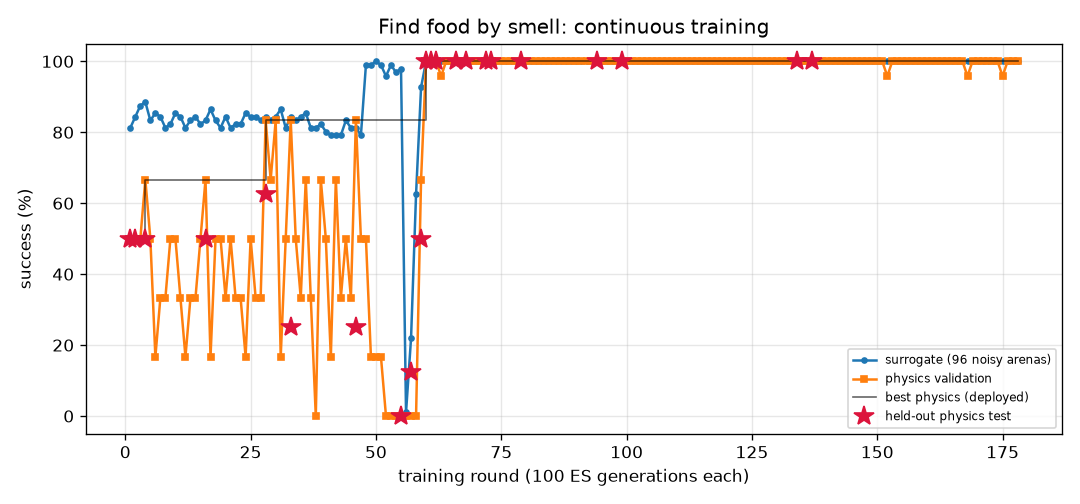
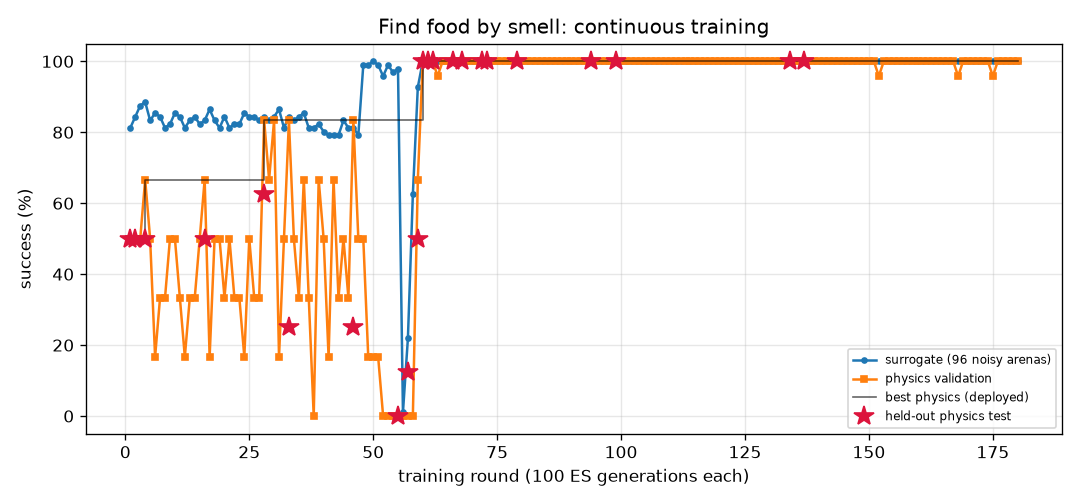
FlyLab: continuous training progress
- walk_forward: optimal, physics val 100% of 24, round 258
- turn: optimal, physics val 100% of 24, round 793
- goto: optimal, physics val 100% of 24, round 213
- odor_seek: optimal, physics val 100% of 24, round 180
- odor_avoid: optimal, physics val 100% of 24, round 725
- light_seek: optimal, physics val 100% of 24, round 406
- light_avoid: optimal, physics val 100% of 24, round 460

diff --git a/projects/09_flylab/training/goto/REPORT.md b/projects/09_flylab/training/goto/REPORT.md
@@ -1,14 +1,14 @@
 # Go to a location (`goto`) — training report
 
-*Auto-generated by `train_brains.py`, last updated 2026-11-01T17:33:13.*
+*Auto-generated by `train_brains.py`, last updated 2026-11-01T21:24:36.*
 
 ![curve](curve.png)
 
 | | |
 |---|---|
-| rounds | 208 |
-| ES generations | 20800 |
-| physics runs | 4942 |
+| rounds | 213 |
+| ES generations | 21300 |
+| physics runs | 5062 |
 | status | **optimal** |
 | best brain | round 176: physics validation **100%** on 24 arenas, surrogate 100% |
 | held-out physics test | **100%** on 32 unseen arenas (95% CI 89%-100%) (errors: [0.2, 0.32, 0.19, 0.24, 0.18, 0.2, 0.19, 0.17, 0.22, 0.23, 0.23, 0.26, 0.2, 0.19, 0.24, 0.23, 0.22, 0.24, 0.2, 0.22, 0.2, 0.2, 0.26, 0.19, 0.22, 0.18, 0.26, 0.22, 0.2, 0.26, 0.23, 0.23]) |
@@ -17,11 +17,6 @@ Physics error per arena: mm from target at the end (< 1.5 and standing still = s
 
 | round | level | gens | sigma | surrogate | physics val | val errors | test | note |
 |---:|---:|---:|---:|---:|---:|---|---:|---|
-| 169 | 3 | 16900 | 0.025 | 100% | 100% | [0.72, 0.67, 0.57, 0.65, 0.57, 0.61, 0.73, 0.66, 0.68, 0.6, 0.57, 0.63, 0.71, 0.59, 0.69, 0.65, 0.74, 0.61, 0.58, 0.69, 0.62, 0.6, 0.72, 0.62] |  |  |
-| 170 | 3 | 17000 | 0.024 | 99% | 100% | [0.44, 0.42, 0.33, 0.42, 0.32, 0.38, 0.42, 0.45, 0.46, 0.35, 0.34, 0.39, 0.46, 0.37, 0.35, 0.4, 0.47, 0.39, 0.32, 0.44, 0.37, 0.34, 0.47, 0.4] |  |  |
-| 171 | 3 | 17100 | 0.025 | 100% | 100% | [0.39, 0.32, 0.27, 0.32, 0.24, 0.29, 0.4, 0.26, 0.37, 0.27, 0.26, 0.31, 0.34, 0.25, 0.33, 0.28, 0.35, 0.28, 0.27, 0.35, 0.27, 0.3, 0.34, 0.32] |  | restart from best |
-| 172 | 3 | 17200 | 0.025 | 100% | 100% | [0.35, 0.42, 0.33, 0.33, 0.3, 0.32, 0.32, 0.36, 0.35, 0.32, 0.29, 0.29, 0.36, 0.35, 0.42, 0.39, 0.4, 0.28, 0.28, 0.32, 0.36, 0.33, 0.38, 0.31] |  |  |
-| 173 | 3 | 17300 | 0.024 | 99% | 100% | [0.43, 0.41, 0.47, 0.38, 0.33, 0.34, 0.42, 0.41, 0.4, 0.38, 0.35, 0.39, 0.42, 0.36, 0.41, 0.42, 0.44, 0.33, 0.35, 0.4, 0.38, 0.38, 0.46, 0.36] |  |  |
 | 174 | 3 | 17400 | 0.025 | 97% | 100% | [0.47, 0.44, 0.38, 0.38, 0.39, 0.37, 0.45, 0.42, 0.44, 0.37, 0.37, 0.37, 0.46, 0.39, 0.36, 0.44, 0.47, 0.46, 0.4, 0.45, 0.43, 0.4, 0.46, 0.38] |  |  |
 | 175 | 3 | 17500 | 0.026 | 97% | 100% | [0.41, 0.44, 0.44, 0.44, 0.44, 0.41, 0.44, 0.45, 0.45, 0.45, 0.44, 0.43, 0.44, 0.46, 0.44, 0.47, 0.44, 0.41, 0.44, 0.45, 0.46, 0.45, 0.43, 0.43] |  | restart from best |
 | 176 | 3 | 17600 | 0.025 | 100% | 100% | [0.25, 0.25, 0.21, 0.23, 0.19, 0.23, 0.23, 0.25, 0.27, 0.17, 0.2, 0.23, 0.26, 0.22, 0.17, 0.21, 0.25, 0.22, 0.17, 0.23, 0.2, 0.18, 0.27, 0.25] | 100% | new best |
@@ -57,3 +52,8 @@ Physics error per arena: mm from target at the end (< 1.5 and standing still = s
 | 206 | 3 | 20600 | 0.025 | 100% | 100% | [0.42, 0.42, 0.43, 0.4, 0.33, 0.38, 0.42, 0.44, 0.42, 0.33, 0.33, 0.37, 0.4, 0.37, 0.38, 0.41, 0.41, 0.4, 0.33, 0.42, 0.4, 0.33, 0.39, 0.4] |  |  |
 | 207 | 3 | 20700 | 0.024 | 99% | 100% | [0.73, 0.65, 0.73, 0.65, 0.53, 0.62, 0.67, 0.62, 0.7, 0.56, 0.55, 0.63, 0.71, 0.54, 0.6, 0.6, 0.73, 0.6, 0.55, 0.67, 0.6, 0.59, 0.71, 0.63] |  |  |
 | 208 | 3 | 20800 | 0.025 | 98% | 100% | [0.45, 0.45, 0.33, 0.42, 0.34, 0.4, 0.42, 0.47, 0.44, 0.34, 0.33, 0.39, 0.47, 0.4, 0.41, 0.41, 0.51, 0.39, 0.33, 0.46, 0.4, 0.36, 0.5, 0.39] |  | restart from best |
+| 209 | 3 | 20900 | 0.024 | 99% | 100% | [0.5, 0.44, 0.42, 0.36, 0.33, 0.34, 0.48, 0.35, 0.39, 0.34, 0.32, 0.36, 0.45, 0.31, 0.4, 0.38, 0.45, 0.4, 0.34, 0.39, 0.37, 0.35, 0.42, 0.35] |  |  |
+| 210 | 3 | 21000 | 0.025 | 100% | 100% | [0.64, 0.58, 0.54, 0.42, 0.44, 0.47, 0.63, 0.44, 0.47, 0.46, 0.45, 0.42, 0.49, 0.42, 0.49, 0.56, 0.51, 0.57, 0.47, 0.49, 0.53, 0.46, 0.49, 0.44] |  |  |
+| 211 | 3 | 21100 | 0.024 | 100% | 100% | [0.74, 0.73, 0.74, 0.67, 0.63, 0.66, 0.75, 0.68, 0.71, 0.64, 0.62, 0.66, 0.73, 0.59, 0.65, 0.67, 0.75, 0.66, 0.64, 0.71, 0.67, 0.67, 0.74, 0.66] |  |  |
+| 212 | 3 | 21200 | 0.024 | 100% | 100% | [0.42, 0.46, 0.45, 0.39, 0.36, 0.38, 0.45, 0.42, 0.43, 0.37, 0.36, 0.39, 0.45, 0.37, 0.44, 0.44, 0.44, 0.38, 0.36, 0.43, 0.41, 0.39, 0.43, 0.39] |  | restart from best |
+| 213 | 3 | 21300 | 0.024 | 99% | 100% | [0.59, 0.61, 0.48, 0.6, 0.49, 0.56, 0.59, 0.64, 0.61, 0.49, 0.5, 0.58, 0.58, 0.52, 0.5, 0.58, 0.62, 0.6, 0.5, 0.62, 0.56, 0.51, 0.58, 0.62] |  |  |

diff --git a/projects/09_flylab/training/odor_seek/REPORT.md b/projects/09_flylab/training/odor_seek/REPORT.md
@@ -1,14 +1,14 @@
 # Find food by smell (`odor_seek`) — training report
 
-*Auto-generated by `train_brains.py`, last updated 2026-11-01T18:00:25.*
+*Auto-generated by `train_brains.py`, last updated 2026-11-01T21:18:11.*
 
 ![curve](curve.png)
 
 | | |
 |---|---|
-| rounds | 178 |
-| ES generations | 17800 |
-| physics runs | 3702 |
+| rounds | 180 |
+| ES generations | 18000 |
+| physics runs | 3750 |
 | status | **optimal** |
 | best brain | round 137: physics validation **100%** on 24 arenas, surrogate 100% |
 | held-out physics test | **100%** on 32 unseen arenas (95% CI 89%-100%) (errors: [0.14, 0.05, 0.19, 0.15, 0.13, 0.08, 0.06, 0.06, 0.04, 0.06, 0.02, 0.11, 0.05, 0.1, 0.06, 0.01, 0.11, 0.12, 0.14, 0.08, 0.12, 0.06, 0.06, 0.09, 0.12, 0.05, 0.07, 0.07, 0.12, 0.11, 0.06, 0.11]) |
@@ -17,8 +17,6 @@ Physics error per arena: mm from target at the end (< 1.5 and standing still = s
 
 | round | level | gens | sigma | surrogate | physics val | val errors | test | note |
 |---:|---:|---:|---:|---:|---:|---|---:|---|
-| 139 | 3 | 13900 | 0.024 | 100% | 100% | [0.07, 0.09, 0.19, 0.14, 0.07, 0.17, 0.21, 0.05, 0.15, 0.07, 0.08, 0.06, 0.05, 0.1, 0.13, 0.08, 0.09, 0.1, 0.05, 0.15, 0.09, 0.11, 0.18, 0.11] |  |  |
-| 140 | 3 | 14000 | 0.024 | 100% | 100% | [0.03, 0.08, 0.16, 0.05, 0.13, 0.04, 0.08, 0.11, 0.13, 0.11, 0.08, 0.12, 0.04, 0.1, 0.11, 0.18, 0.06, 0.15, 0.14, 0.11, 0.1, 0.19, 0.12, 0.13] |  |  |
 | 141 | 3 | 14100 | 0.024 | 100% | 100% | [0.17, 0.18, 0.18, 0.07, 0.12, 0.14, 0.08, 0.2, 0.21, 0.12, 0.16, 0.11, 0.19, 0.16, 0.18, 0.07, 0.15, 0.13, 0.17, 0.25, 0.15, 0.09, 0.19, 0.2] |  | restart from best |
 | 142 | 3 | 14200 | 0.024 | 100% | 100% | [0.17, 0.12, 0.11, 0.21, 0.2, 0.1, 0.2, 0.19, 0.19, 0.16, 0.17, 0.16, 0.2, 0.18, 0.11, 0.15, 0.12, 0.17, 0.13, 0.14, 0.17, 0.19, 0.16, 0.11] |  |  |
 | 143 | 3 | 14300 | 0.024 | 100% | 100% | [0.18, 0.18, 0.15, 0.2, 0.18, 0.21, 0.15, 0.16, 0.17, 0.21, 0.21, 0.17, 0.2, 0.2, 0.16, 0.2, 0.18, 0.18, 0.2, 0.19, 0.2, 0.24, 0.19, 0.15] |  |  |
@@ -57,3 +55,5 @@ Physics error per arena: mm from target at the end (< 1.5 and standing still = s
 | 176 | 3 | 17600 | 0.024 | 100% | 100% | [0.22, 0.17, 0.19, 0.16, 0.19, 0.17, 0.12, 0.24, 0.18, 0.22, 0.17, 0.23, 0.21, 0.2, 0.15, 0.23, 0.07, 0.16, 0.18, 0.14, 0.14, 0.15, 0.18, 0.23] |  |  |
 | 177 | 3 | 17700 | 0.024 | 100% | 100% | [0.17, 0.2, 0.2, 0.13, 0.22, 0.19, 0.23, 0.22, 0.25, 0.13, 0.23, 0.2, 0.16, 0.16, 0.21, 0.17, 0.18, 0.17, 0.18, 0.18, 0.2, 0.17, 0.21, 0.21] |  | restart from best |
 | 178 | 3 | 17800 | 0.024 | 100% | 100% | [0.16, 0.12, 0.17, 0.23, 0.26, 0.13, 0.16, 0.16, 0.11, 0.16, 0.12, 0.12, 0.12, 0.09, 0.19, 0.15, 0.17, 0.16, 0.15, 0.15, 0.16, 0.14, 0.15, 0.19] |  |  |
+| 179 | 3 | 17900 | 0.024 | 100% | 100% | [0.19, 0.14, 0.12, 0.24, 0.18, 0.2, 0.13, 0.14, 0.15, 0.15, 0.2, 0.12, 0.17, 0.17, 0.15, 0.12, 0.08, 0.16, 0.22, 0.19, 0.2, 0.17, 0.25, 0.17] |  |  |
+| 180 | 3 | 18000 | 0.024 | 100% | 100% | [0.25, 0.23, 0.17, 0.25, 0.18, 0.18, 0.2, 0.19, 0.19, 0.17, 0.2, 0.22, 0.2, 0.19, 0.21, 0.25, 0.16, 0.24, 0.15, 0.2, 0.23, 0.27, 0.18, 0.18] |  |  |

diff --git a/projects/09_flylab/training/walk_forward/REPORT.md b/projects/09_flylab/training/walk_forward/REPORT.md
@@ -1,14 +1,14 @@
 # Walk forward (`walk_forward`) — training report
 
-*Auto-generated by `train_brains.py`, last updated 2026-11-01T20:21:56.*
+*Auto-generated by `train_brains.py`, last updated 2026-11-01T20:44:09.*
 
 ![curve](curve.png)
 
 | | |
 |---|---|
-| rounds | 256 |
-| ES generations | 25600 |
-| physics runs | 6158 |
+| rounds | 258 |
+| ES generations | 25800 |
+| physics runs | 6206 |
 | status | **optimal** |
 | best brain | round 116: physics validation **100%** on 24 arenas, surrogate 100% |
 | held-out physics test | **100%** on 32 unseen arenas (95% CI 89%-100%) (errors: [0.13, 0.16, 0.19, 0.16, 0.15, 0.2, 0.17, 0.18, 0.17, 0.19, 0.2, 0.14, 0.17, 0.19, 0.2, 0.2, 0.13, 0.19, 0.16, 0.2, 0.2, 0.16, 0.17, 0.2, 0.13, 0.15, 0.18, 0.14, 0.16, 0.15, 0.19, 0.12]) |
@@ -17,8 +17,6 @@ Physics error per arena: mm from target at the end (< 1.5 and standing still = s
 
 | round | level | gens | sigma | surrogate | physics val | val errors | test | note |
 |---:|---:|---:|---:|---:|---:|---|---:|---|
-| 217 | 3 | 21700 | 0.024 | 100% | 100% | [0.21, 0.28, 0.22, 0.21, 0.28, 0.23, 0.28, 0.22, 0.28, 0.32, 0.24, 0.33, 0.22, 0.23, 0.22, 0.33, 0.21, 0.25, 0.21, 0.22, 0.21, 0.33, 0.33, 0.22] |  |  |
-| 218 | 3 | 21800 | 0.024 | 100% | 100% | [0.24, 0.22, 0.18, 0.24, 0.22, 0.19, 0.24, 0.19, 0.23, 0.21, 0.21, 0.2, 0.19, 0.16, 0.28, 0.26, 0.21, 0.22, 0.22, 0.28, 0.2, 0.21, 0.24, 0.2] |  |  |
 | 219 | 3 | 21900 | 0.024 | 100% | 100% | [0.23, 0.27, 0.19, 0.23, 0.27, 0.18, 0.27, 0.2, 0.27, 0.27, 0.17, 0.25, 0.19, 0.18, 0.25, 0.27, 0.23, 0.27, 0.2, 0.25, 0.21, 0.27, 0.25, 0.19] |  |  |
 | 220 | 3 | 22000 | 0.024 | 100% | 100% | [0.31, 0.33, 0.25, 0.31, 0.34, 0.25, 0.33, 0.28, 0.34, 0.34, 0.24, 0.31, 0.27, 0.26, 0.33, 0.32, 0.3, 0.35, 0.28, 0.34, 0.28, 0.33, 0.3, 0.27] |  | restart from best |
 | 221 | 3 | 22100 | 0.024 | 99% | 100% | [0.24, 0.24, 0.19, 0.24, 0.24, 0.18, 0.24, 0.2, 0.23, 0.22, 0.17, 0.2, 0.2, 0.18, 0.24, 0.21, 0.23, 0.24, 0.21, 0.24, 0.22, 0.22, 0.2, 0.2] |  |  |
@@ -57,3 +55,5 @@ Physics error per arena: mm from target at the end (< 1.5 and standing still = s
 | 254 | 3 | 25400 | 0.024 | 100% | 83% | [0.14, 0.08, 0.09, 0.06, 0.21, 0.08, 0.03, 0.08, 0.08, 0.07, 0.11, 0.08, 0.07, 1.06, 0.16, 0.11, 1.07, 0.06, 0.07, 0.07, 0.08, 0.05, 0.09, 0.06] |  |  |
 | 255 | 3 | 25500 | 0.024 | 100% | 75% | [0.05, 0.08, 0.02, 0.51, 0.07, 0.13, 0.06, 0.07, 0.08, 0.07, 0.1, 0.06, 0.07, 0.19, 0.05, 0.02, 0.52, 0.0, 0.07, 0.06, 0.69, 0.1, 0.05, 0.08] |  |  |
 | 256 | 3 | 25600 | 0.024 | 100% | 100% | [0.23, 0.32, 0.24, 0.23, 0.31, 0.24, 0.32, 0.25, 0.32, 0.35, 0.24, 0.35, 0.25, 0.25, 0.24, 0.34, 0.23, 0.28, 0.24, 0.24, 0.24, 0.35, 0.34, 0.25] |  | restart from best |
+| 257 | 3 | 25700 | 0.024 | 100% | 100% | [0.24, 0.28, 0.17, 0.23, 0.27, 0.17, 0.27, 0.17, 0.27, 0.27, 0.17, 0.25, 0.17, 0.17, 0.25, 0.25, 0.22, 0.28, 0.18, 0.26, 0.19, 0.27, 0.24, 0.18] |  |  |
+| 258 | 3 | 25800 | 0.024 | 100% | 88% | [0.1, 0.13, 0.72, 0.06, 0.1, 0.08, 0.18, 0.02, 0.12, 0.11, 0.13, 0.19, 0.06, 0.54, 0.23, 0.11, 0.05, 0.21, 0.41, 0.2, 0.09, 0.18, 0.12, 0.05] |  |  |

diff --git a/projects/09_flylab/training/TRAINING.md b/projects/09_flylab/training/TRAINING.md
@@ -1,15 +1,15 @@
 # FlyLab brains — continuous training log
 
-*Auto-generated by `train_brains.py`, last updated 2026-11-01T20:21:56.*
+*Auto-generated by `train_brains.py`, last updated 2026-11-01T21:24:36.*
 
 Every skill has its own brain and its own training process: surrogate ES rounds, physics validation in MuJoCo, keep-the-best selection, and a held-out physics test that is never used for selection. See each skill's report for its full round-by-round history. Mastery is progressive: passing a level (100% physics validation, >=95% surrogate) doubles the validation and test arena sets; a brain is **optimal** once it holds up at level 3 (>=95% of 24 validation arenas) AND scores >=90% on the 32 held-out test arenas. Test columns show 95% Wilson confidence intervals.
 
 | skill | rounds | ES generations | physics runs | surrogate | physics val | **physics test** | status |
 |---|---:|---:|---:|---:|---:|---:|---|
-| [Walk forward](walk_forward/REPORT.md) | 256 | 25600 | 6158 | 100% | 100% of 24 | 100% of 32 (CI 89-100%) | **optimal** |
+| [Walk forward](walk_forward/REPORT.md) | 258 | 25800 | 6206 | 100% | 100% of 24 | 100% of 32 (CI 89-100%) | **optimal** |
 | [Turn in place](turn/REPORT.md) | 793 | 79300 | 19278 | 100% | 100% of 24 | 97% of 32 (CI 84-99%) | **optimal** |
-| [Go to a location](goto/REPORT.md) | 208 | 20800 | 4942 | 100% | 100% of 24 | 100% of 32 (CI 89-100%) | **optimal** |
-| [Find food by smell](odor_seek/REPORT.md) | 178 | 17800 | 3702 | 100% | 100% of 24 | 100% of 32 (CI 89-100%) | **optimal** |
+| [Go to a location](goto/REPORT.md) | 213 | 21300 | 5062 | 100% | 100% of 24 | 100% of 32 (CI 89-100%) | **optimal** |
+| [Find food by smell](odor_seek/REPORT.md) | 180 | 18000 | 3750 | 100% | 100% of 24 | 100% of 32 (CI 89-100%) | **optimal** |
 | [Escape a bad smell](odor_avoid/REPORT.md) | 725 | 72500 | 14706 | 97% | 100% of 24 | 97% of 32 (CI 84-99%) | **optimal** |
 | [Walk toward light](light_seek/REPORT.md) | 406 | 40600 | 6624 | 100% | 100% of 24 | 100% of 32 (CI 89-100%) | **optimal** |
 | [Hide from light](light_avoid/REPORT.md) | 460 | 46000 | 11312 | 100% | 100% of 24 | 100% of 32 (CI 89-100%) | **optimal** |
